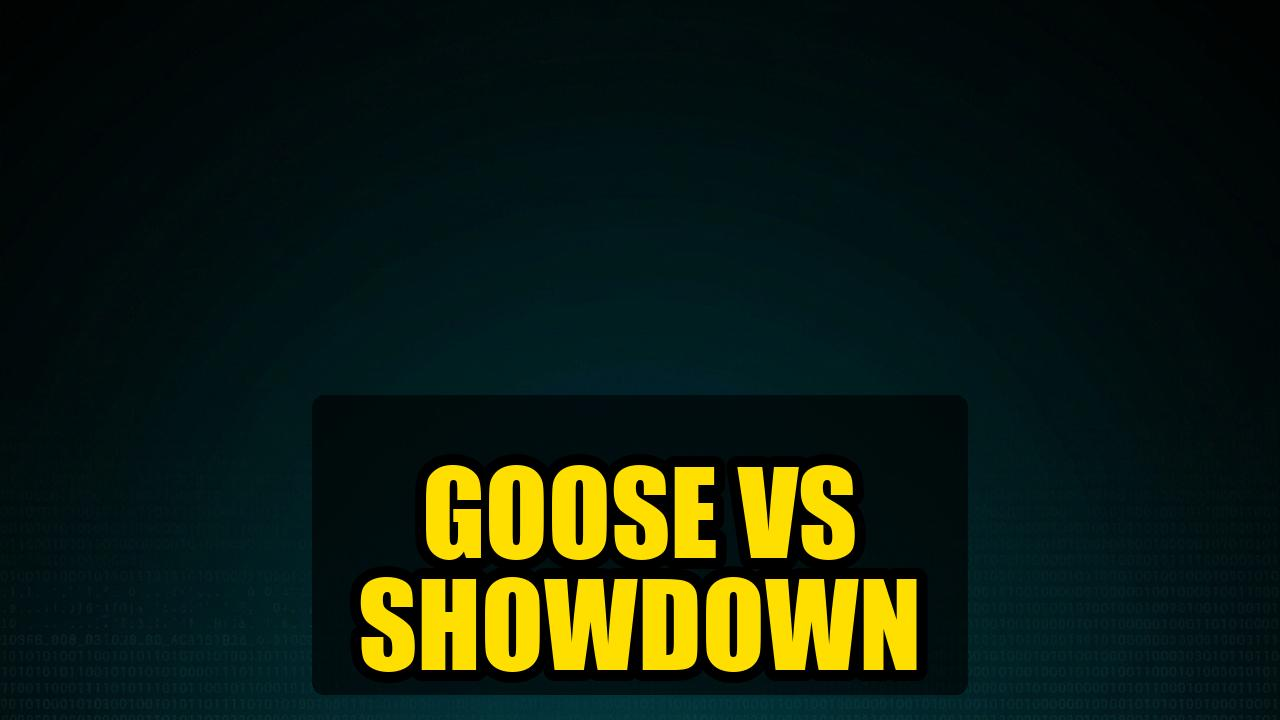
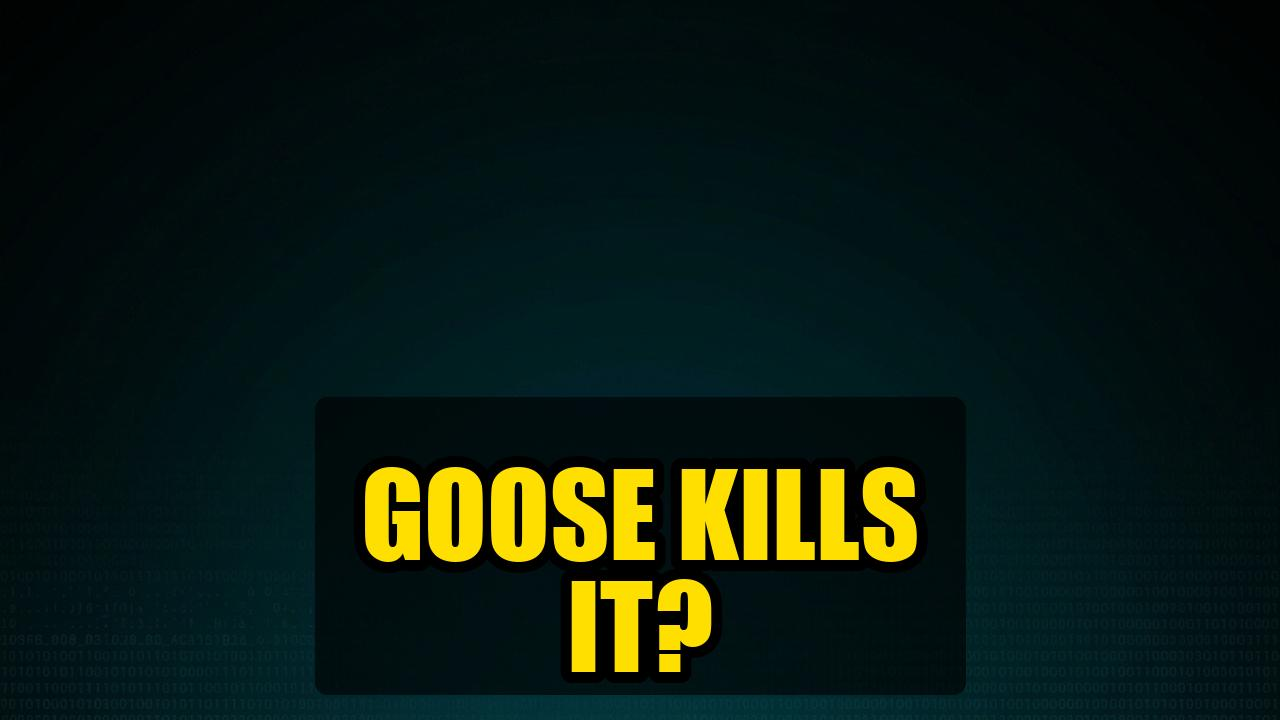
Add guide: guide

Changed region(s): [[0.2812, 0.6417, 0.7188, 0.9472]]

diff --git a/guides/guide/index.html b/guides/guide/index.html
@@ -6,7 +6,7 @@
     <meta name="description" content="">
     <meta name="keywords" content="">
     <meta name="author" content="Weight and See">
-    <meta property="og:title" content="Video Topic - Complete Guide">
+    <meta property="og:title" content="Video Topic - Deep Dive Analysis">
     <meta property="og:description" content="">
     <meta property="og:type" content="article">
     <title>Video Topic | Weight and See Guide</title>
@@ -375,86 +375,72 @@
 <body>
     <div class="container">
         <header class="header">
-            <span class="badge">Complete Guide</span>
+            <span class="badge">Deep Dive Analysis</span>
             <h1>Video Topic</h1>
-            <p class="subtitle">A comprehensive guide covering Video Topic.</p>
+            <p class="subtitle">A comprehensive analysis and technical walkthrough covering AI Coding Tools & Architecture Analysis.</p>
             <div class="meta">
                 <span>By Weight and See</span>
                 <span>August 12, 2026</span>
-                <span>3 Steps</span>
+                <span>5 Findings</span>
             </div>
         </header>
 
         <section class="section">
-            <h2 class="section-title"><span class="icon">🎯</span> Key Takeaways</h2>
+            <h2 class="section-title"><span class="icon">🔬</span> Key Findings</h2>
+
+            <div class="finding">
+                <h3>Cost Efficiency & Zero Subscription Fees</h3>
+                <p>Detailed analysis of AI Coding Tools & Architecture Analysis. Open-source alternatives eliminate recurring $20–$30/month AI subscription fees while delivering high coding output per dollar.</p>
+            </div>
+
+            <div class="finding">
+                <h3>Local Execution & Code Privacy</h3>
+                <p>Local-first inference ensures proprietary source code never leaves the developer's workstation or local network.</p>
+            </div>
+
+            <div class="finding">
+                <h3>Model Agnosticism & Architecture Flexibility</h3>
+                <p>Modular architecture allows developers to dynamically switch backend inference models (Llama 4, DeepSeek V4, OpenAI, Anthropic) via simple config updates.</p>
+            </div>
+
+            <div class="finding">
+                <h3>Elimination of Vendor Lock-In</h3>
+                <p>Avoiding monolithic cloud walled gardens prevents work disruption from sudden pricing hikes, rate limit caps, or API deprecations.</p>
+            </div>
+
+            <div class="finding">
+                <h3>Hardware & Environment Requirements</h3>
+                <p>Self-hosted AI assistance requires managing Python environments, GPU drivers, and local weights for optimal latency.</p>
+            </div>
+        </section>
+
+        <section class="section">
+            <h2 class="section-title"><span class="icon">⚙</span> Technical Background</h2>
             <div class="card">
-                <ul class="takeaway-list">
-                    <li><span class="takeaway-num">1</span><span>Understanding the core concepts of Video Topic</span></li>
-                    <li><span class="takeaway-num">2</span><span>Practical implementation steps</span></li>
-                    <li><span class="takeaway-num">3</span><span>Best practices and optimization tips</span></li>
-                    <li><span class="takeaway-num">4</span><span>Common challenges and how to overcome them</span></li>
-                    <li><span class="takeaway-num">5</span><span>Resources for further learning</span></li>
-                </ul>
+                <p style="color: var(--text-secondary); line-height: 1.8;">AI-assisted development relies on large language models (LLMs) executing context-aware code synthesis. Tools like Goose leverage open protocol backends and local inference to provide full agentic workflow automation without lock-in.</p>
             </div>
         </section>
 
         <section class="section">
-            <h2 class="section-title"><span class="icon">📋</span> Prerequisites</h2>
-            <div class="card">
-                <ul>
-                    <li style="padding: 6px 0; color: var(--text-secondary);">Basic understanding of the topic</li>
-                    <li style="padding: 6px 0; color: var(--text-secondary);">A computer with internet access</li>
-                </ul>
+            <h2 class="section-title"><span class="icon">🔮</span> Implications</h2>
+
+            <div class="implication">
+                Developers can eliminate recurring monthly SaaS AI fees by adopting open-source tools.
+            </div>
+
+            <div class="implication">
+                Local inference provides complete privacy for sensitive and proprietary codebases.
+            </div>
+
+            <div class="implication">
+                Vendor-agnostic tooling protects teams against API pricing spikes or sudden terms-of-service changes.
             </div>
         </section>
 
         <section class="section">
-            <h2 class="section-title"><span class="icon">📝</span> Step-by-Step Guide</h2>
-
-            <div class="step">
-                <span class="step-num">1</span>
-                <h3>Getting Started</h3>
-                <p>Set up your environment and install necessary tools.</p>
-            </div>
-
-            <div class="step">
-                <span class="step-num">2</span>
-                <h3>Configuration</h3>
-                <p>Configure the tools according to your needs.</p>
-            </div>
-
-            <div class="step">
-                <span class="step-num">3</span>
-                <h3>Implementation</h3>
-                <p>Follow the steps to implement the solution.</p>
-            </div>
-        </section>
-
-        <section class="section">
-            <h2 class="section-title"><span class="icon">💡</span> Pro Tips</h2>
-
-            <div class="tip">
-                <strong>Pro Tip:</strong> Start with the basics before diving into advanced features
-            </div>
-
-            <div class="tip">
-                <strong>Pro Tip:</strong> Keep your configuration backed up
-            </div>
-
-            <div class="tip">
-                <strong>Pro Tip:</strong> Test in a development environment first
-            </div>
-        </section>
-
-        <section class="section">
-            <h2 class="section-title"><span class="icon">⚠</span> Common Pitfalls</h2>
-
-            <div class="pitfall">
-                <strong>Watch Out:</strong> Skipping the prerequisites can lead to setup issues
-            </div>
-
-            <div class="pitfall">
-                <strong>Watch Out:</strong> Not reading the documentation thoroughly
+            <h2 class="section-title"><span class="icon">💭</span> Expert Analysis</h2>
+            <div class="analysis-block">
+                Evaluating AI Coding Tools & Architecture Analysis reveals a major shift toward developer-controlled, open-source AI tooling. While cloud solutions offer zero-setup convenience, local and model-agnostic tools like Goose offer superior privacy, cost predictability, and architectural freedom.
             </div>
         </section>
 
@@ -462,13 +448,13 @@
             <h2 class="section-title"><span class="icon">❓</span> Frequently Asked Questions</h2>
 
             <div class="faq-item card">
-                <h3>What is Video Topic?</h3>
-                <p></p>
+                <h3>What is the main advantage of AI Coding Tools & Architecture Analysis?</h3>
+                <p>The primary advantage is full freedom from vendor lock-in, zero subscription fees, and local-first privacy.</p>
             </div>
 
             <div class="faq-item card">
-                <h3>Where can I find more information?</h3>
-                <p>Check the links in the description and this guide.</p>
+                <h3>Where can I access the repository and code?</h3>
+                <p>Official GitHub links are provided in the References section of this guide.</p>
             </div>
         </section>
 
@@ -479,7 +465,7 @@
             </p>
             <div class="tags">
             </div>
-            <p style="margin-top: 24px; font-size: 12px;">Generated on 2026-08-12 17:36 • This guide accompanies the video: "Video Topic"</p>
+            <p style="margin-top: 24px; font-size: 12px;">Generated on 2026-08-12 17:49 • This guide accompanies the video: "Video Topic"</p>
         </footer>
     </div>
 </body>
